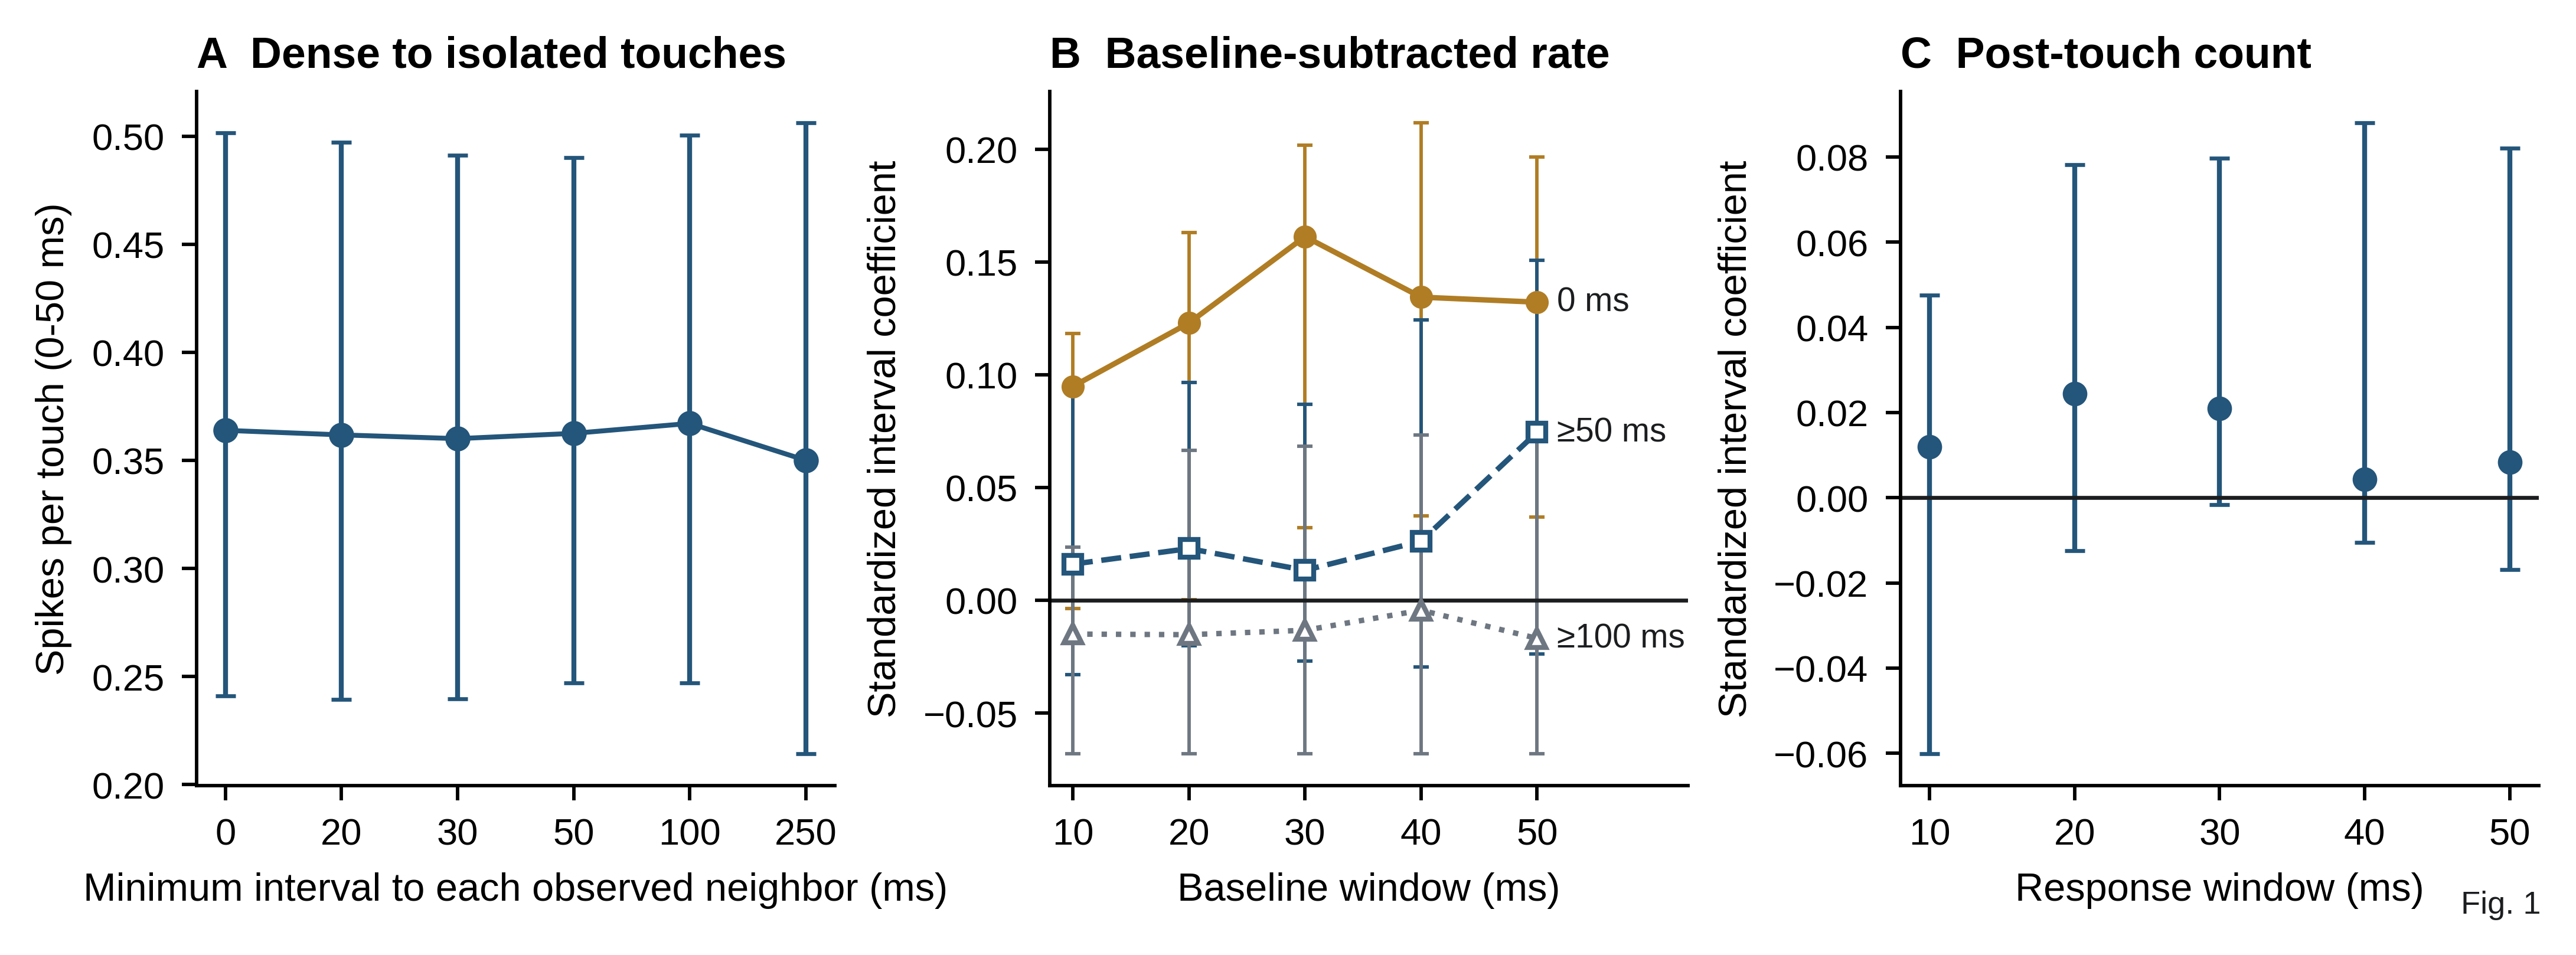
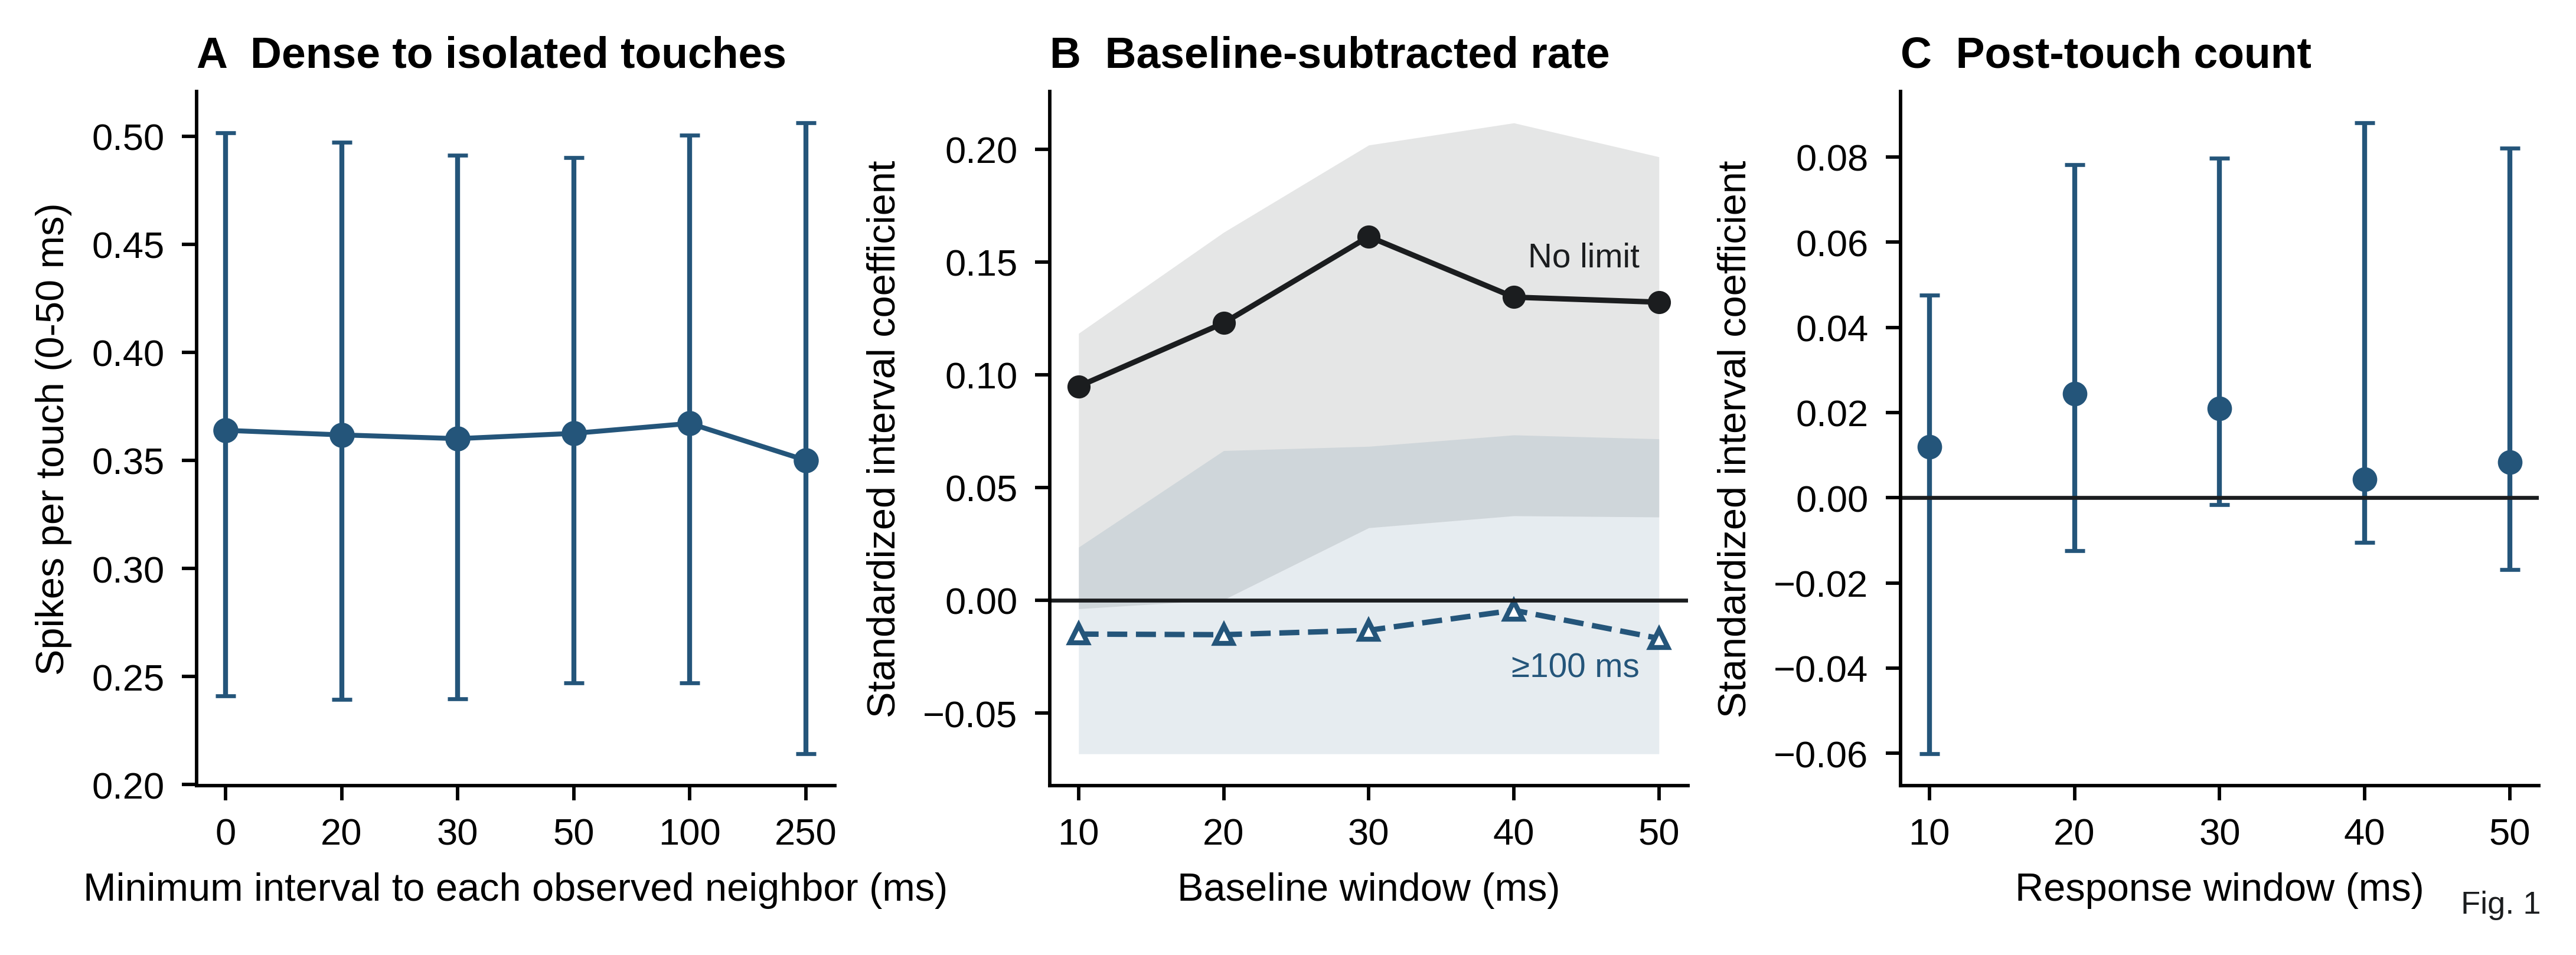
Update Figure 1 presentation and archive metadata

Changed region(s): [[0.4052, 0.1236, 0.6546, 0.8035], [0.4676, 0.8653, 0.6546, 0.8962], [0.4052, 0.8653, 0.4364, 0.8962]]

diff --git a/scripts/run_analysis.py b/scripts/run_analysis.py
@@ -1045,48 +1045,48 @@ def make_figure_1(
 
     baseline = history[
         (history["analysis"] == "baseline_subtracted_rate")
-        & history["minimum_previous_interval_ms"].isin([0, 50, 100])
+        & history["minimum_previous_interval_ms"].isin([0, 100])
     ]
     for minimum, color, marker, linestyle, label in (
-        (0, OCHRE, "o", "-", "0 ms"),
-        (50, BLUE, "s", "--", "≥50 ms"),
-        (100, GRAY, "^", ":", "≥100 ms"),
+        (0, BLACK, "o", "-", "No limit"),
+        (100, BLUE, "^", "--", "≥100 ms"),
     ):
         part = baseline[baseline["minimum_previous_interval_ms"] == minimum].sort_values(
             "baseline_window_ms"
         )
-        axes[1].errorbar(
+        axes[1].fill_between(
+            part["baseline_window_ms"],
+            part["ci_low"],
+            part["ci_high"],
+            color=color,
+            alpha=0.11,
+            linewidth=0,
+        )
+        axes[1].plot(
             part["baseline_window_ms"],
             part["median_beta"],
-            yerr=[
-                part["median_beta"] - part["ci_low"],
-                part["ci_high"] - part["median_beta"],
-            ],
             color=color,
             marker=marker,
             markerfacecolor="white" if minimum else color,
+            markeredgecolor=color,
             markersize=3.7,
             linewidth=1.1,
             linestyle=linestyle,
-            elinewidth=0.7,
-            capsize=1.6,
-            capthick=0.7,
-            label=label,
         )
         last = part.iloc[-1]
         axes[1].annotate(
             label,
             (last["baseline_window_ms"], last["median_beta"]),
-            xytext=(4, 0),
+            xytext=(-4, 9 if minimum == 0 else -6),
             textcoords="offset points",
             va="center",
-            ha="left",
+            ha="right",
             fontsize=6.8,
-            color=BLACK,
+            color=color,
         )
     axes[1].axhline(0, color=BLACK, linewidth=0.8)
     axes[1].set_xticks([10, 20, 30, 40, 50])
-    axes[1].set_xlim(8, 63)
+    axes[1].set_xlim(8, 52)
     axes[1].set_xlabel("Baseline window (ms)", fontsize=8.0)
     axes[1].set_ylabel("Standardized interval coefficient", fontsize=8.0)
     panel_title(axes[1], "B", "Baseline-subtracted rate")

diff --git a/README.md b/README.md
@@ -2,9 +2,9 @@
 
 These materials reproduce the analyses for "Rapid sequential touches complicate whisking-phase analysis in mouse active touch."
 
-Archive version: 1.0.5 (July 19, 2026).
+Archive version: 1.0.6 (July 21, 2026).
 
-Author: Yuxuan Xu. Repository: https://github.com/xyx-ethan/rapid-sequential-touches-reanalysis. The archived release is https://doi.org/10.5281/zenodo.21438519; the all-version record is https://doi.org/10.5281/zenodo.21422472.
+Author: Yuxuan Xu. Repository: https://github.com/xyx-ethan/rapid-sequential-touches-reanalysis. The archived release is https://doi.org/10.5281/zenodo.21481856; the all-version record is https://doi.org/10.5281/zenodo.21422472.
 
 ## Contents
 